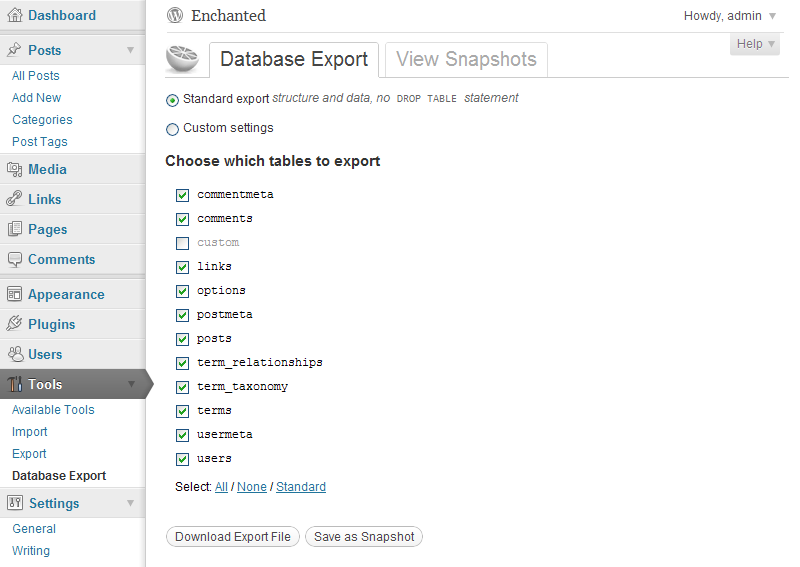
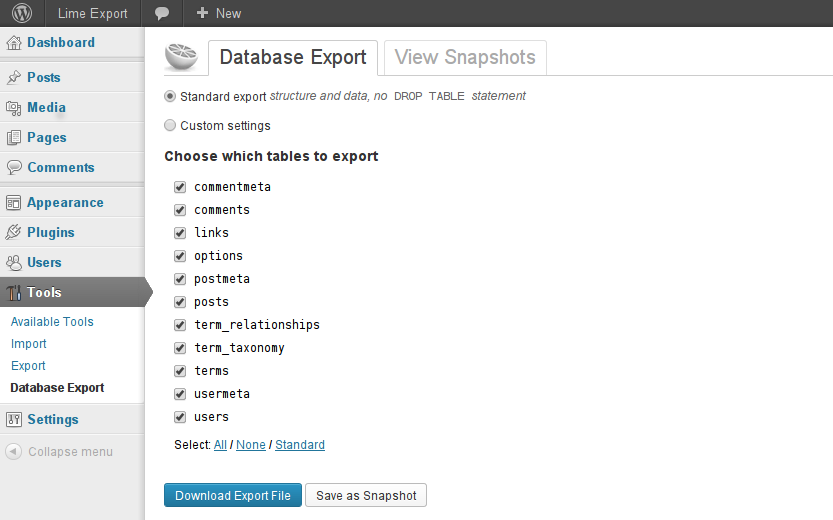
Lime Export 0.3

Changed region(s): [[0.0, 0.0, 1.0, 1.0]]

diff --git a/assets/func.js b/assets/func.js
@@ -24,7 +24,7 @@ jQuery(function($) {
 
 		$('a[data-action^=select-]', form).click(function() {
 			var tables_list = $(this).closest('.tables-list');
-			switch ( $(this).data('Action') ) {
+			switch ( $(this).attr('data-action') ) {
 				case 'select-all':
 					tables_list.find('input:checkbox:not(:checked)').click();
 					break;

diff --git a/page-export.php b/page-export.php
@@ -80,7 +80,7 @@
 		</ul>
 
 		<p class="submit">
-			<input type="submit" name="submit" id="submit" class="button-secondary" value="<?php echo __('Download Export File') ?>">
+			<input type="submit" name="submit" id="submit" class="button-primary" value="<?php echo __('Download Export File') ?>">
 			<input type="submit" name="wple_save_snapshot" id="submit" class="button-secondary" value="<?php echo __('Save as Snapshot') ?>">
 		</p>
 	</form>
